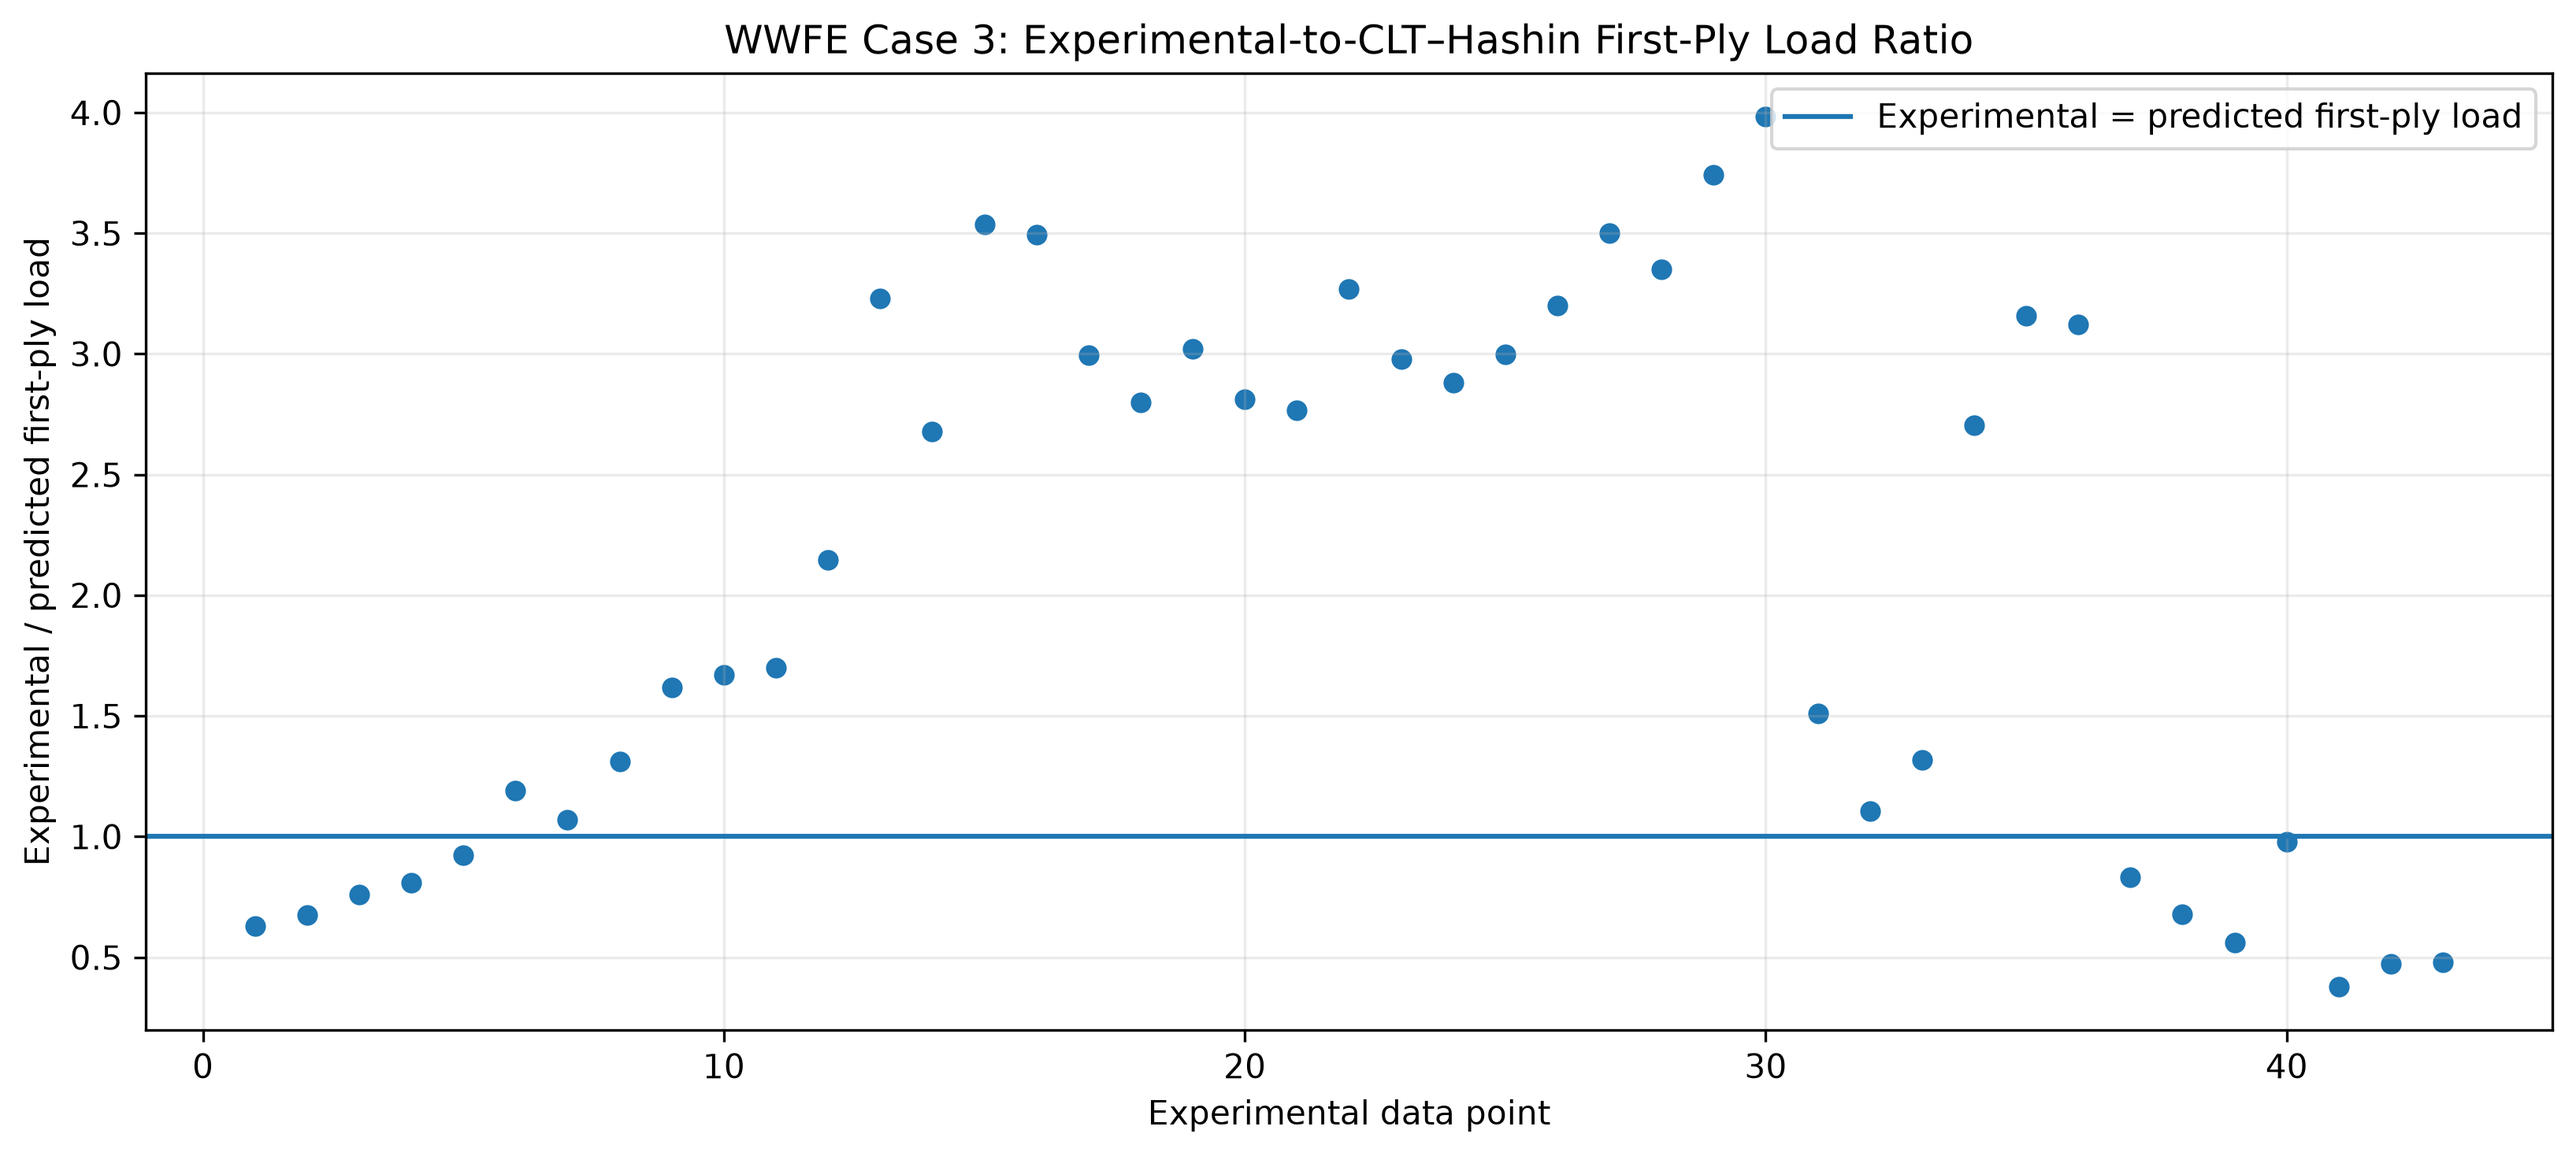
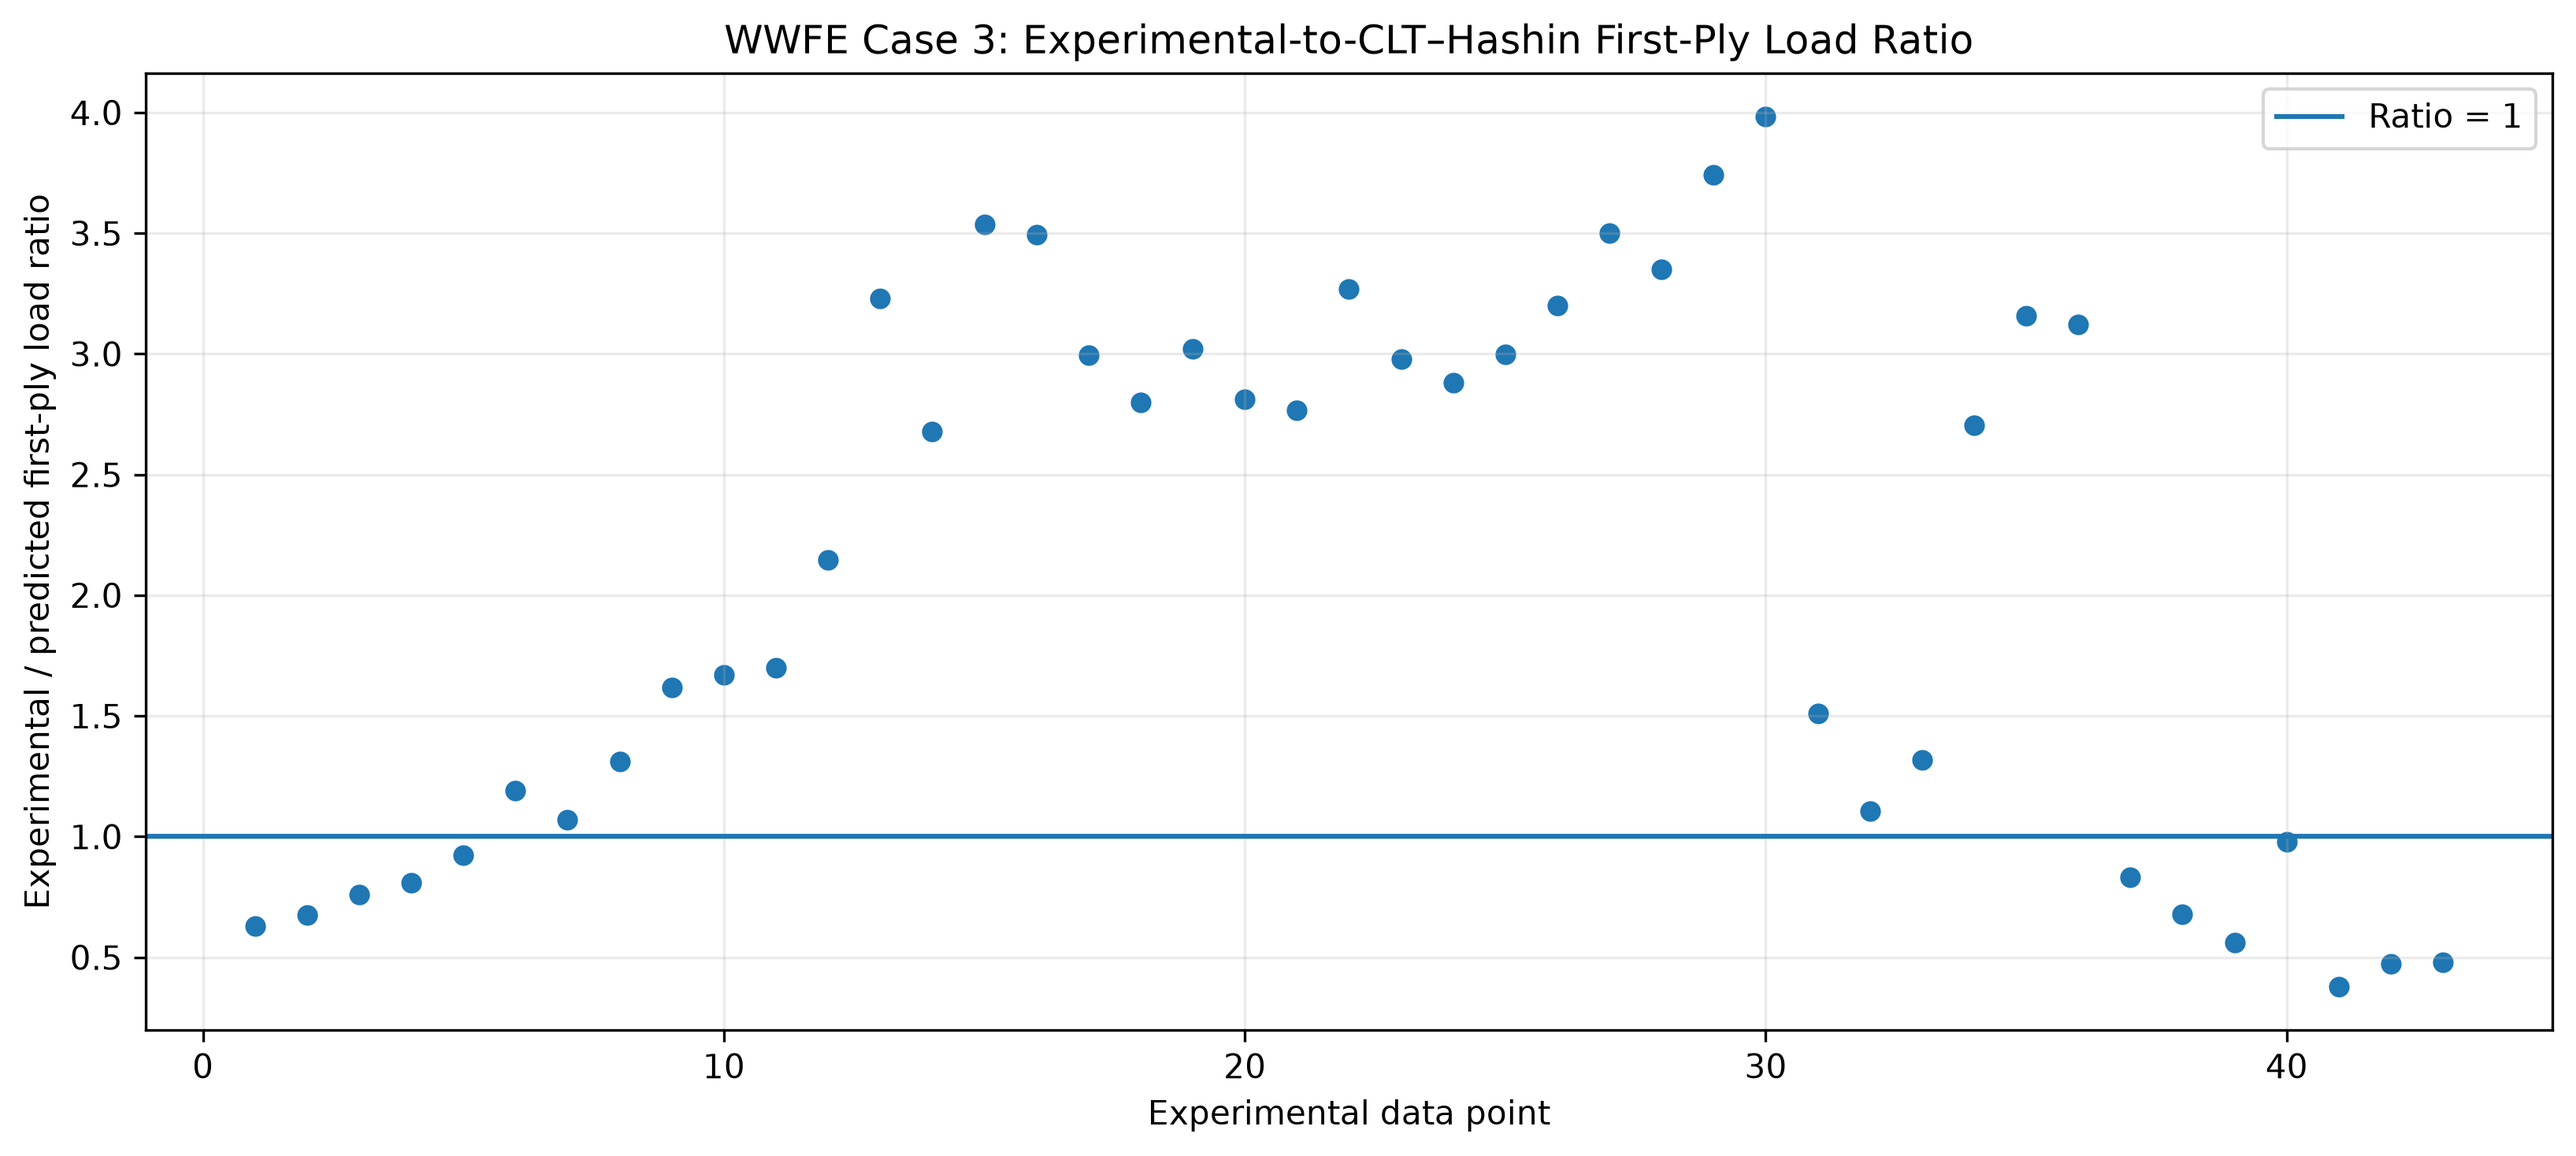
Finalize WWFE Case 3 validation plots

Changed region(s): [[0.0, 0.2146, 0.0312, 0.6744], [0.6862, 0.0613, 0.9982, 0.1226], [0.0, 0.705, 0.0312, 0.7663]]

diff --git a/validation/wwfe_cases/case3_quantitative_validation.py b/validation/wwfe_cases/case3_quantitative_validation.py
@@ -251,14 +251,17 @@ def main():
         envelope["sigma_x_MPa"],
         envelope["sigma_y_MPa"],
         linewidth=2.2,
-        label="CLT + Hashin first-ply failure",
+        label="CLT–Hashin predicted first-ply-failure envelope",
     )
 
     plt.axhline(0, linewidth=0.8)
     plt.axvline(0, linewidth=0.8)
     plt.xlabel("sigma_x (MPa)")
     plt.ylabel("sigma_y (MPa)")
-    plt.title("WWFE Case 3: Experimental Points vs CLT–Hashin First-Ply Envelope")
+    plt.title(
+        "WWFE Case 3: Experimental Failure Data vs "
+        "CLT–Hashin First-Ply-Failure Envelope"
+    )
     plt.grid(True, alpha=0.25)
     plt.legend(fontsize=8)
     plt.tight_layout()
@@ -276,7 +279,7 @@ def main():
     plt.axhline(
         1.0,
         linewidth=1.5,
-        label="Experimental = predicted first-ply load",
+        label="Ratio = 1",
     )
 
     plt.scatter(
@@ -286,7 +289,7 @@ def main():
     )
 
     plt.xlabel("Experimental data point")
-    plt.ylabel("Experimental / predicted first-ply load")
+    plt.ylabel("Experimental / predicted first-ply load ratio")
     plt.title("WWFE Case 3: Experimental-to-CLT–Hashin First-Ply Load Ratio")
     plt.grid(True, alpha=0.25)
     plt.legend()
